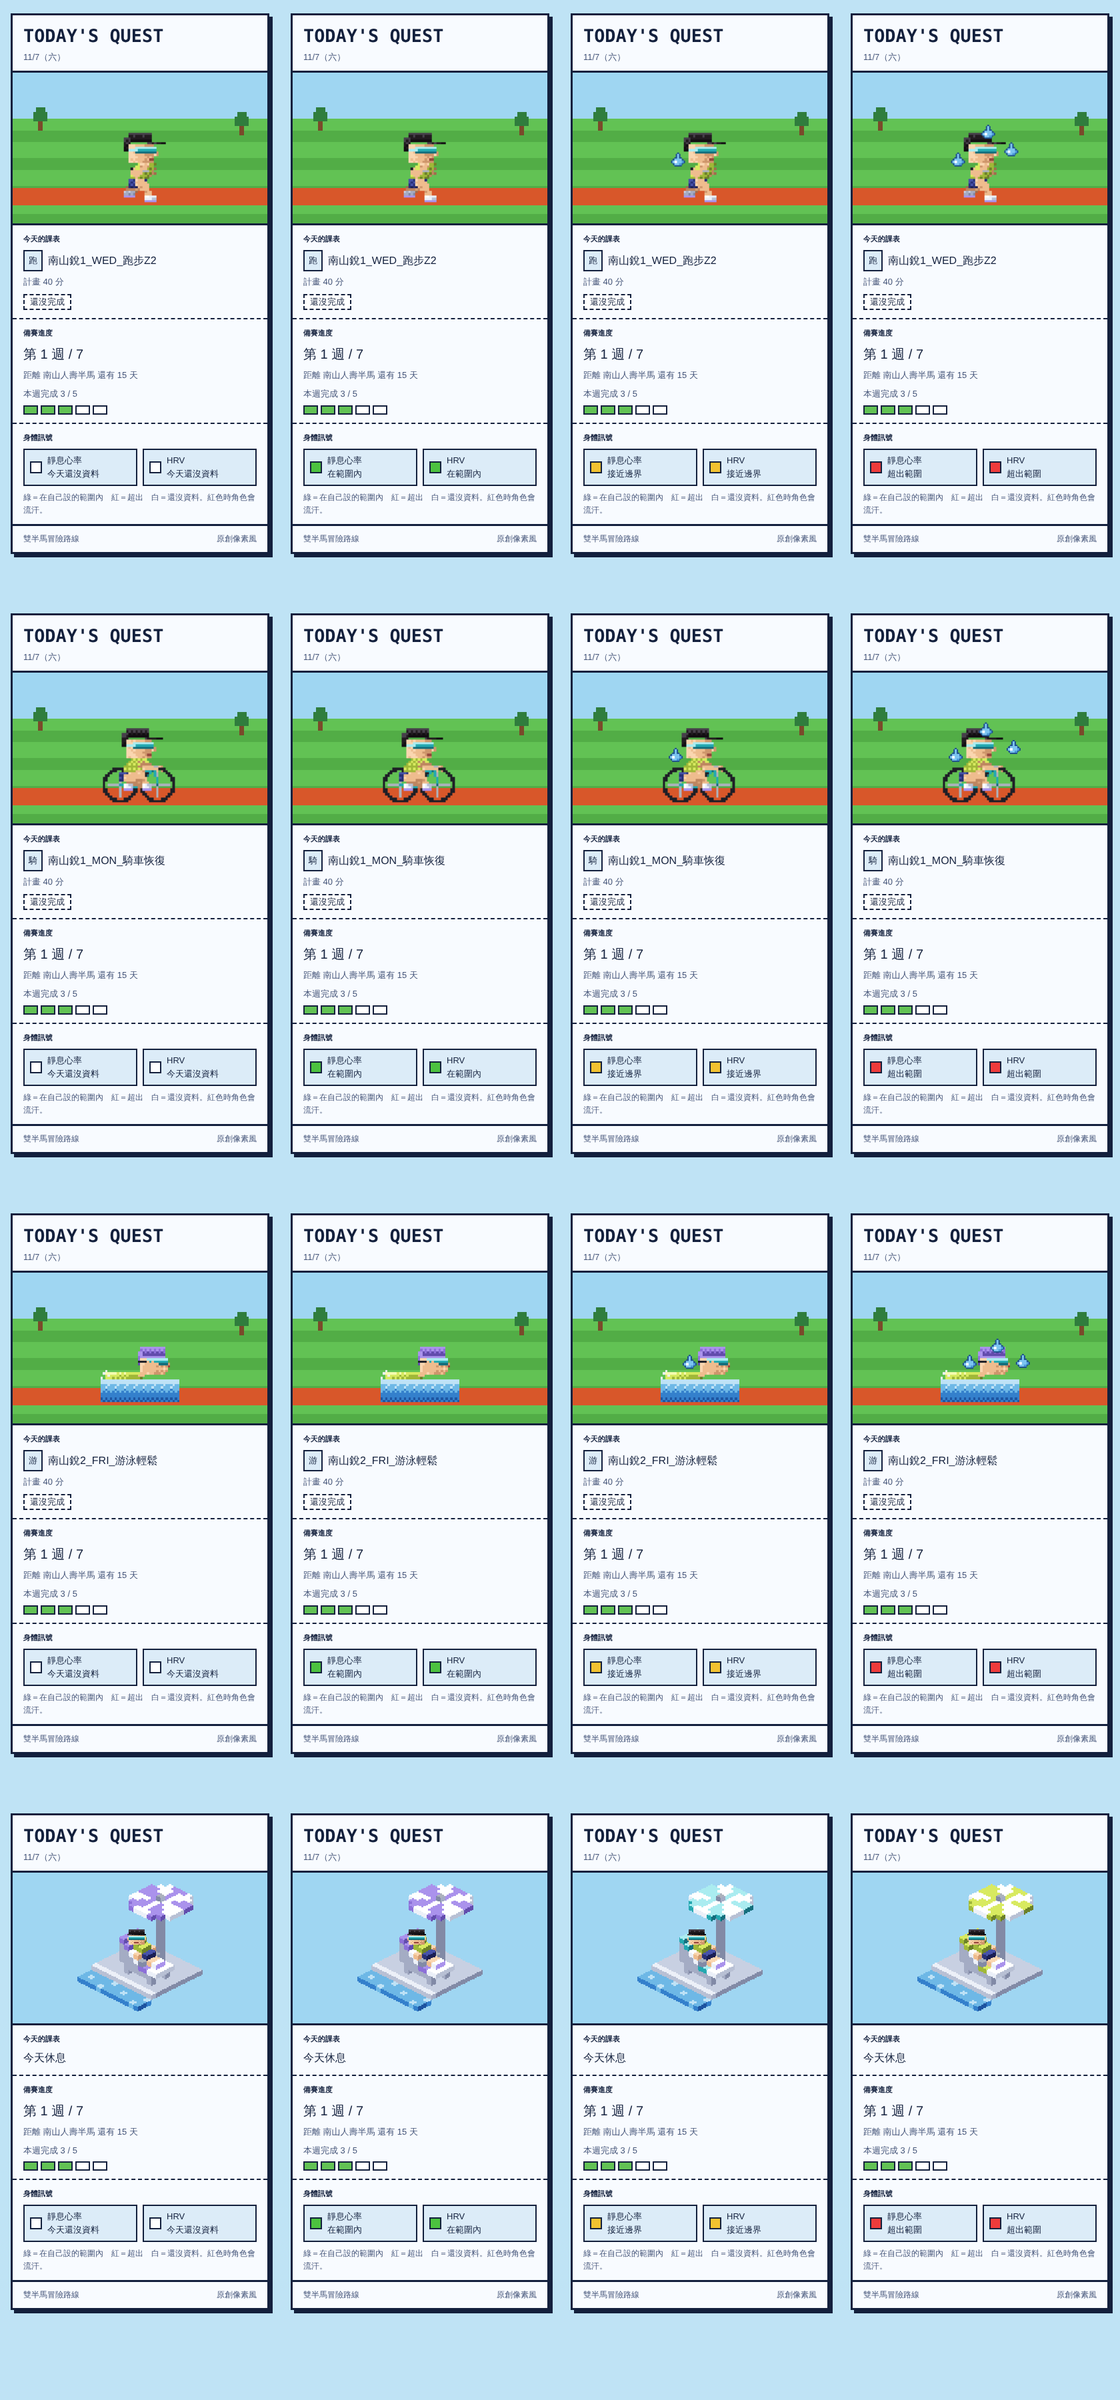
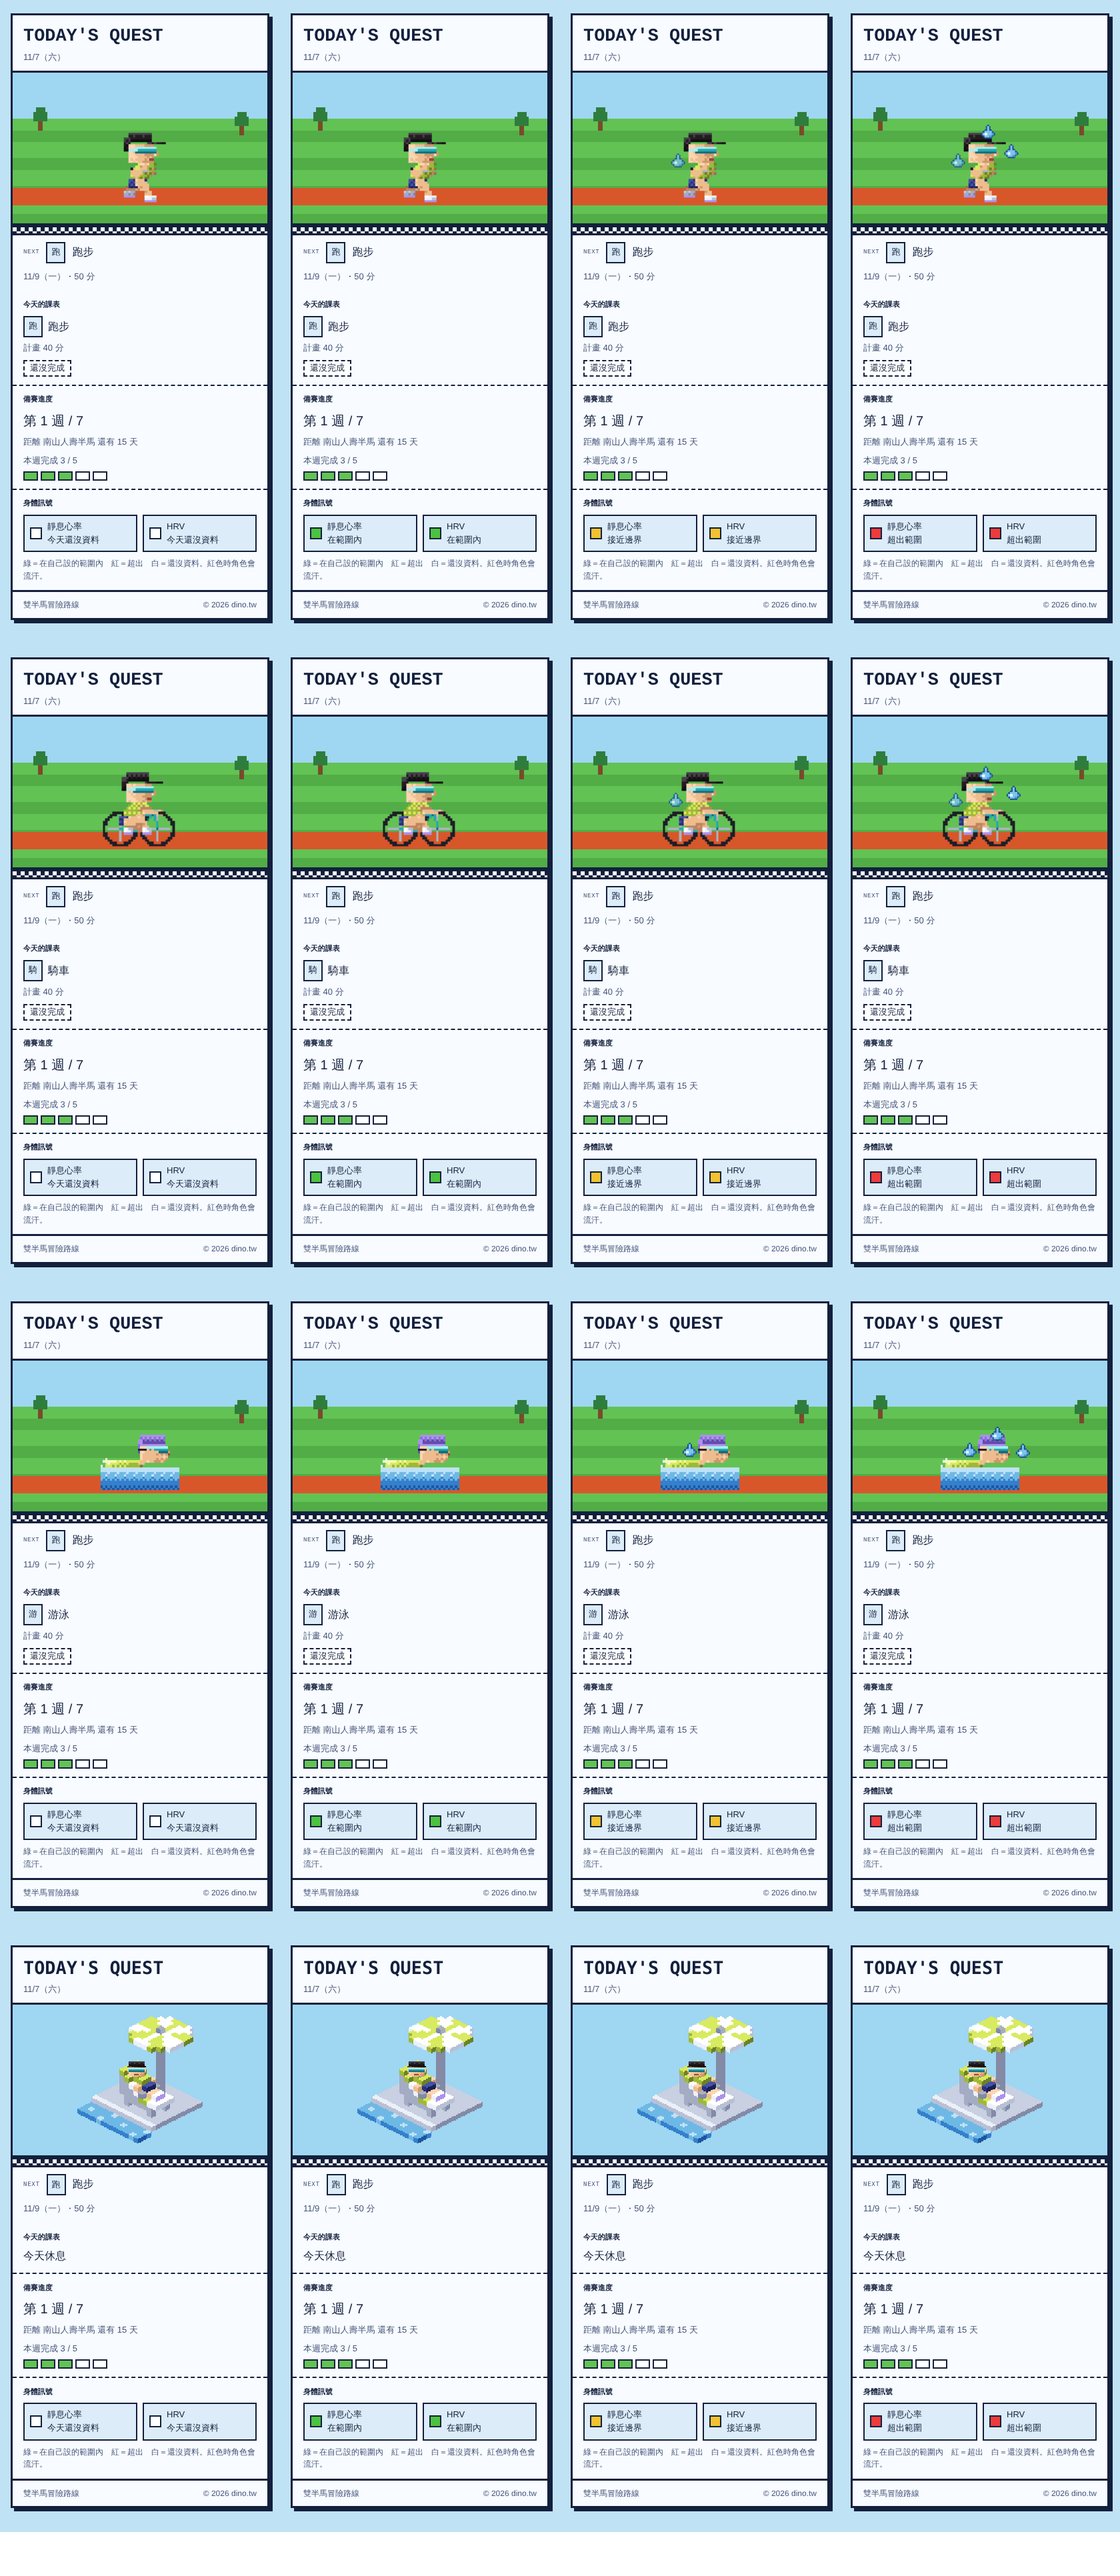
關閉 workers.dev；展示版改顯示類型名稱、版權宣告 dino.tw、新增下一個課表終點線區塊

diff --git a/public-demo/index.html b/public-demo/index.html
@@ -40,6 +40,12 @@ h1,h2,p{margin:0}
 .chip i{flex:none;width:18px;height:18px;border:2px solid var(--line);display:block}
 .chip.ok i{background:#4cc23f}.chip.out i{background:#ee3b3b}.chip.near i{background:#f2c230}.chip.missing i{background:#fff}
 .legend{margin-top:8px;color:var(--muted);font-size:12px}
+.finl{border-top:3px solid var(--line);background:var(--panel)}
+.finl i{display:block;height:12px;background-image:conic-gradient(#13203d 25%,#fff 0 50%,#13203d 0 75%,#fff 0);background-size:12px 12px;border-bottom:3px solid var(--line)}
+.finl .fb{padding:10px 16px 12px;display:flex;align-items:center;gap:10px;flex-wrap:wrap}
+.finl .fk{font-family:var(--font-display);font-size:9px;color:var(--muted);letter-spacing:.08em}
+.finl .fn{font-size:16px}
+.finl .fm{color:var(--muted);font-size:13px;width:100%}
 .ft{padding:10px 16px;border-top:3px solid var(--line);color:var(--muted);font-size:12px;display:flex;justify-content:space-between;gap:8px;flex-wrap:wrap}
 @keyframes sweat{0%{transform:translateY(0);opacity:1}75%{transform:translateY(8px);opacity:1}100%{transform:translateY(12px);opacity:0}}
 .sdrop{animation:sweat .9s steps(5,end) infinite}
@@ -92,6 +98,7 @@ function sprite(x,y,left,act,lvl){
   return out+'</g></g>';
 }
 var WD=['日','一','二','三','四','五','六'];
+var KN={'跑':'跑步','騎':'騎車','游':'游泳','肌力':'肌力訓練'}; function kn(k){return KN[k]||k||'其他'}
 function p(s){var a=s.split('-').map(Number);return new Date(a[0],a[1]-1,a[2],12)}
 function esc(s){return String(s==null?'':s).replace(/[&<>"']/g,function(c){return {'&':'&amp;','<':'&lt;','>':'&gt;','"':'&quot;',"'":'&#39;'}[c]})}
 var d=p(SNAP.date), days=Math.round((p(SNAP.race.date)-d)/86400000);
@@ -112,14 +119,15 @@ function scene(){
 }
 var h='<div class="hd"><h1>TODAY\'S QUEST</h1><div class="dt">'+(d.getMonth()+1)+'/'+d.getDate()+'（'+WD[d.getDay()]+'）</div></div>';
 h+='<div class="scene">'+scene()+'</div>';
+if(SNAP.next){var nd=p(SNAP.next.date);h+='<div class="finl" aria-label="下一個課表"><i aria-hidden="true"></i><div class="fb"><span class="fk">NEXT</span><span class="kd">'+esc(SNAP.next.kind)+'</span><span class="fn">'+esc(kn(SNAP.next.kind))+'</span><span class="fm">'+(nd.getMonth()+1)+'/'+nd.getDate()+'（'+WD[nd.getDay()]+'）'+(SNAP.next.mins?'・'+SNAP.next.mins+' 分':'')+'</span></div></div>'}
 h+='<section class="sec"><h2>今天的課表</h2>';
 if(w){
-  h+='<div class="wk"><span class="kd">'+esc(w.kind)+'</span><span class="wt">'+esc(w.title)+'</span></div>';
+  h+='<div class="wk"><span class="kd">'+esc(w.kind)+'</span><span class="wt">'+esc(kn(w.kind))+'</span></div>';
   h+='<div class="meta">計畫 '+w.mins+' 分</div>';
   if(w.done){h+='<span class="st done">完成</span>'+(w.actual?'<div class="meta">實際 '+(w.actual.km?w.actual.km+' 公里・':'')+w.actual.min+' 分</div>':'')}
   else h+='<span class="st todo">還沒完成</span>';
 }else h+='<div class="wt">今天休息</div>';
-if(SNAP.extras&&SNAP.extras.length){h+='<div class="meta">另外完成：'+SNAP.extras.map(function(x){return esc(x.title)+(x.km?'（'+x.km+' 公里・'+x.min+' 分）':'')}).join('、')+'</div>'}
+if(SNAP.extras&&SNAP.extras.length){h+='<div class="meta">另外完成：'+SNAP.extras.map(function(x){return esc(kn(x.kind))+(x.km?'（'+x.km+' 公里・'+x.min+' 分）':'')}).join('、')+'</div>'}
 h+='</section>';
 h+='<section class="sec"><h2>備賽進度</h2><div class="big">第 '+SNAP.weekNo+' 週 / '+SNAP.weeks+'</div>';
 h+='<div class="meta">距離 '+esc(SNAP.race.name)+' 還有 '+days+' 天</div>';
@@ -129,8 +137,8 @@ h+='</div></section>';
 h+='<section class="sec"><h2>身體訊號</h2><div class="chips">';
 [['rhr','靜息心率'],['hrv','HRV']].forEach(function(x){var s=SNAP.body[x[0]];h+='<div class="chip '+s+'"><i></i><span>'+x[1]+'<br>'+LBL[s]+'</span></div>'});
 h+='</div><div class="legend">綠＝在自己設的範圍內　紅＝超出　白＝還沒資料。紅色時角色會流汗。</div></section>';
-h+='<div class="ft"><span>雙半馬冒險路線</span><span>原創像素風</span></div>';
+h+='<div class="ft"><span>雙半馬冒險路線</span><span>© '+new Date().getFullYear()+' dino.tw</span></div>';
 document.getElementById('card').innerHTML=h;
-}).catch(function(){document.getElementById('card').innerHTML='<div class="sec">資料暫時讀不到，請稍後再試。</div>'});
+}).catch(function(e){try{console.error('展示版載入失敗：',e)}catch(_){}document.getElementById('card').innerHTML='<div class="sec">資料暫時讀不到，請稍後再試。</div>'});
 })();
 </script>

diff --git a/source/showcase_template.html b/source/showcase_template.html
@@ -36,6 +36,12 @@ h1,h2,p{margin:0}
 .chip i{flex:none;width:18px;height:18px;border:2px solid var(--line);display:block}
 .chip.ok i{background:#4cc23f}.chip.out i{background:#ee3b3b}.chip.near i{background:#f2c230}.chip.missing i{background:#fff}
 .legend{margin-top:8px;color:var(--muted);font-size:12px}
+.finl{border-top:3px solid var(--line);background:var(--panel)}
+.finl i{display:block;height:12px;background-image:conic-gradient(#13203d 25%,#fff 0 50%,#13203d 0 75%,#fff 0);background-size:12px 12px;border-bottom:3px solid var(--line)}
+.finl .fb{padding:10px 16px 12px;display:flex;align-items:center;gap:10px;flex-wrap:wrap}
+.finl .fk{font-family:var(--font-display);font-size:9px;color:var(--muted);letter-spacing:.08em}
+.finl .fn{font-size:16px}
+.finl .fm{color:var(--muted);font-size:13px;width:100%}
 .ft{padding:10px 16px;border-top:3px solid var(--line);color:var(--muted);font-size:12px;display:flex;justify-content:space-between;gap:8px;flex-wrap:wrap}
 @keyframes sweat{0%{transform:translateY(0);opacity:1}75%{transform:translateY(8px);opacity:1}100%{transform:translateY(12px);opacity:0}}
 .sdrop{animation:sweat .9s steps(5,end) infinite}
@@ -50,6 +56,7 @@ h1,h2,p{margin:0}
 var SNAP=__SNAP__;
 __SPRITE__
 var WD=['日','一','二','三','四','五','六'];
+var KN={'跑':'跑步','騎':'騎車','游':'游泳','肌力':'肌力訓練'}; function kn(k){return KN[k]||k||'其他'}
 function p(s){var a=s.split('-').map(Number);return new Date(a[0],a[1]-1,a[2],12)}
 function esc(s){return String(s==null?'':s).replace(/[&<>"']/g,function(c){return {'&':'&amp;','<':'&lt;','>':'&gt;','"':'&quot;',"'":'&#39;'}[c]})}
 var d=p(SNAP.date), days=Math.round((p(SNAP.race.date)-d)/86400000);
@@ -69,14 +76,15 @@ function scene(){
 }
 var h='<div class="hd"><h1>TODAY\'S QUEST</h1><div class="dt">'+(d.getMonth()+1)+'/'+d.getDate()+'（'+WD[d.getDay()]+'）</div></div>';
 h+='<div class="scene">'+scene()+'</div>';
+if(SNAP.next){var nd=p(SNAP.next.date);h+='<div class="finl" aria-label="下一個課表"><i aria-hidden="true"></i><div class="fb"><span class="fk">NEXT</span><span class="kd">'+esc(SNAP.next.kind)+'</span><span class="fn">'+esc(kn(SNAP.next.kind))+'</span><span class="fm">'+(nd.getMonth()+1)+'/'+nd.getDate()+'（'+WD[nd.getDay()]+'）'+(SNAP.next.mins?'・'+SNAP.next.mins+' 分':'')+'</span></div></div>'}
 h+='<section class="sec"><h2>今天的課表</h2>';
 if(w){
-  h+='<div class="wk"><span class="kd">'+esc(w.kind)+'</span><span class="wt">'+esc(w.title)+'</span></div>';
+  h+='<div class="wk"><span class="kd">'+esc(w.kind)+'</span><span class="wt">'+esc(kn(w.kind))+'</span></div>';
   h+='<div class="meta">計畫 '+w.mins+' 分</div>';
   if(w.done){h+='<span class="st done">完成</span>'+(w.actual?'<div class="meta">實際 '+(w.actual.km?w.actual.km+' 公里・':'')+w.actual.min+' 分</div>':'')}
   else h+='<span class="st todo">還沒完成</span>';
 }else h+='<div class="wt">今天休息</div>';
-if(SNAP.extras&&SNAP.extras.length){h+='<div class="meta">另外完成：'+SNAP.extras.map(function(x){return esc(x.title)+(x.km?'（'+x.km+' 公里・'+x.min+' 分）':'')}).join('、')+'</div>'}
+if(SNAP.extras&&SNAP.extras.length){h+='<div class="meta">另外完成：'+SNAP.extras.map(function(x){return esc(kn(x.kind))+(x.km?'（'+x.km+' 公里・'+x.min+' 分）':'')}).join('、')+'</div>'}
 h+='</section>';
 h+='<section class="sec"><h2>備賽進度</h2><div class="big">第 '+SNAP.weekNo+' 週 / '+SNAP.weeks+'</div>';
 h+='<div class="meta">距離 '+esc(SNAP.race.name)+' 還有 '+days+' 天</div>';
@@ -86,7 +94,7 @@ h+='</div></section>';
 h+='<section class="sec"><h2>身體訊號</h2><div class="chips">';
 [['rhr','靜息心率'],['hrv','HRV']].forEach(function(x){var s=SNAP.body[x[0]];h+='<div class="chip '+s+'"><i></i><span>'+x[1]+'<br>'+LBL[s]+'</span></div>'});
 h+='</div><div class="legend">綠＝在自己設的範圍內　紅＝超出　白＝還沒資料。紅色時角色會流汗。</div></section>';
-h+='<div class="ft"><span>雙半馬冒險路線</span><span>原創像素風</span></div>';
+h+='<div class="ft"><span>雙半馬冒險路線</span><span>© '+new Date().getFullYear()+' dino.tw</span></div>';
 document.getElementById('card').innerHTML=h;
 })();
 </script>

diff --git a/src/lib/snapshot.js b/src/lib/snapshot.js
@@ -1,4 +1,4 @@
-// 展示版快照：只組出淨化後的欄位（規格第八節）。不含 desc、心率、HRV、睡眠、CTL/ATL、note 內的心率與負荷。
+// 展示版快照：只組出淨化後的欄位（規格第八節；2026-11-12 起不輸出課表原名與活動名稱，只給類型）。不含 desc、心率、HRV、睡眠、CTL/ATL、note 內的心率與負荷。
 export const START = '2026-11-02', NWEEKS = 7;
 export const RACES = [
   { id: 'nanshan', name: '南山人壽半馬', date: '2026-11-22' },
@@ -26,13 +26,16 @@ export function buildSnapshot({ today, workouts, wellness, ranges }) {
   const race = RACES.find((x) => x.date >= today) || null;
   const extras = workouts.filter((w) => w.unplanned && w.date === today).map((w) => {
     const km = /([\d.]+)\s*km/.exec(w.note || ''), mn = /(\d+)\s*分/.exec(w.note || '');
-    return { title: w.title, km: km ? Number(km[1]) : null, min: mn ? Number(mn[1]) : null };
+    return { kind: w.kind, km: km ? Number(km[1]) : null, min: mn ? Number(mn[1]) : null }; // 不輸出活動名稱（常含地名）
   });
+  // 下一個課表：今天之後最近一筆「有排的訓練」（休息、計畫外不算）；公開版只給類型、日期、時長
+  const nx = workouts.filter((w) => !w.unplanned && w.kind !== '休息' && w.date > today).sort((a, b) => (a.date < b.date ? -1 : 1))[0];
   return {
     date: today, weekNo: wi + 1, weeks: NWEEKS,
+    next: nx ? { date: nx.date, kind: nx.kind, mins: nx.mins ?? null } : null,
     race: race && { name: race.name, date: race.date },
     workout: tw ? {
-      kind: tw.kind, title: tw.title, mins: tw.mins ?? null, done: !!tw.done,
+      kind: tw.kind, mins: tw.mins ?? null, done: !!tw.done, // 不輸出課表原名，只給類型
       actual: tw.done && tw.actual ? { km: tw.actual.km ?? null, min: tw.actual.min ?? null } : null,
     } : null,
     extras,

diff --git a/test/sync.test.js b/test/sync.test.js
@@ -124,7 +124,20 @@ describe('展示版快照', () => {
     const j = JSON.stringify(s);
     for (const w of ['SECRET', 'avgHr', 'load', '115', 'desc', 'hrv":3', 'rhr":6']) expect(j).not.toContain(w);
     expect(s.body).toEqual({ rhr: 'out', hrv: 'out' });
-    expect(s.extras[0]).toEqual({ title: 'U', km: 2.4, min: 8 });
+    expect(s.extras[0]).toEqual({ kind: undefined, km: 2.4, min: 8 });
+    expect(j).not.toContain('"title"'); expect(j).not.toContain('"U"'); expect(s.workout).not.toHaveProperty('title');
+  });
+});
+
+describe('下一個課表', () => {
+  it('取今天之後最近一筆有排的訓練，只給類型、日期、時長', () => {
+    const base = { today: '2026-11-06', ranges: {}, wellness: undefined };
+    const s = buildSnapshot({ ...base, workouts: [
+      { date: '2026-11-06', title: 'T', kind: '跑', mins: 50 }, { date: '2026-11-09', title: 'SECRET2', kind: '休息' },
+      { date: '2026-11-10', title: 'SECRET3', kind: '騎', mins: 30 }, { date: '2026-11-08', title: 'X', kind: '跑', mins: 20, unplanned: true } ] });
+    expect(s.next).toEqual({ date: '2026-11-10', kind: '騎', mins: 30 });
+    expect(JSON.stringify(s)).not.toContain('SECRET');
+    expect(buildSnapshot({ ...base, workouts: [] }).next).toBeNull();
   });
 });
 

diff --git a/public/index.html b/public/index.html
@@ -818,7 +818,7 @@ function drawCard(D){
   });
   ctx.fillStyle=MUTED; ctx.font='10px '+BODY; ctx.fillText('綠＝在自己設的範圍內　紅＝超出　白＝還沒資料。紅色時角色會流汗。',16,y2+76);
   ctx.fillStyle=INK; ctx.fillRect(0,y2+82,360,3);
-  ctx.fillStyle=MUTED; ctx.font='11px '+BODY; ctx.fillText('雙半馬冒險路線',16,y2+98); ctx.textAlign='right'; ctx.fillText('原創像素風',344,y2+98); ctx.textAlign='left';
+  ctx.fillStyle=MUTED; ctx.font='11px '+BODY; ctx.fillText('雙半馬冒險路線',16,y2+98); ctx.textAlign='right'; ctx.fillText('© '+new Date().getFullYear()+' dino.tw',344,y2+98); ctx.textAlign='left';
   ctx.strokeStyle=INK; ctx.lineWidth=4; ctx.strokeRect(2,2,356,636);
   return cv;
 }

diff --git a/scripts/build_demo.py b/scripts/build_demo.py
@@ -20,7 +20,7 @@ t = t.replace("function scene(){", "function scene(){\n  if(!w&&window.REST_ART)
 assert 'var SNAP=__SNAP__;' in t and t.rstrip().endswith('</script>')
 t = t.replace('var SNAP=__SNAP__;', "fetch('/api/snapshot?tz='+encodeURIComponent((function(){try{return Intl.DateTimeFormat().resolvedOptions().timeZone||''}catch(e){return ''}})()),{cache:'no-store'}).then(function(r){if(!r.ok)throw 0;return r.json()}).then(function(SNAP){", 1)
 k = t.rindex('})();')
-t = t[:k] + "}).catch(function(){document.getElementById('card').innerHTML='<div class=\"sec\">資料暫時讀不到，請稍後再試。</div>'});\n})();" + t[k + 5:]
+t = t[:k] + "}).catch(function(e){try{console.error('展示版載入失敗：',e)}catch(_){}document.getElementById('card').innerHTML='<div class=\"sec\">資料暫時讀不到，請稍後再試。</div>'});\n})();" + t[k + 5:]
 t = '<!doctype html>\n<html lang="zh-Hant"><head>\n<meta charset="utf-8">\n<meta name="viewport" content="width=device-width,initial-scale=1,viewport-fit=cover">\n' + t
 os.makedirs(os.path.join(root, 'public-demo'), exist_ok=True)
 open(os.path.join(root, 'public-demo/index.html'), 'w', encoding='utf-8').write(t)

diff --git a/CLAUDE.md b/CLAUDE.md
@@ -38,6 +38,7 @@
 - 身分與驗證（2026-11-12）：長期方向為專屬身分服務、各服務自己授權（草稿，待決定）；階段 0 已生效：Google 登入方式已建立，`adventure` 只留 Google 並開 Instant authentication，電腦直接跳 Google、iPhone 主畫面網頁直接進頁面（2026-11-12）；兩層登入時間已設（Dino 回報）；待確認太太帳號是否在 Google 測試使用者，並觀察長期不重登。文件索引見 docs/README.md。
 - 同步狀態提示（2026-11-12）：右下角按鈕「↻ 更新於 HH:MM」，最近一次同步失敗時多一行紅字「同步失敗：原因（HH:MM）」，超過 24 小時沒有成功同步時顯示「超過 N 小時未更新」，從未成功同步顯示「尚未成功同步」；/api/sync-status 回傳 failed、staleHours。四種情況並排截圖：docs/shots/sync_status_states.png（scripts/sync_status_states.cjs）。同步失敗的主動通知：Dino 決定**不做**（失敗不嚴重，頁面有呈現即可，2026-11-12）。
 - 自訂網域（2026-11-12）：完整版 adventure.dino.tw、展示版 quest.dino.tw（已部署並驗證，2026-11-12：adventure.dino.tw 未登入時 302 導向 Access 登入；quest.dino.tw 公開，/api/snapshot 回 200，其餘 /api/* 為 404，無禁止欄位；檢查腳本 scripts/check_domains.sh；Dino 確認新網址使用正常）；trilog.run 不用於 adventure；ACCESS_AUD 支援逗號分隔多個。workers.dev 先保留過渡。
+- 展示版調整（2026-11-12）：workers.dev 已關閉（`workers_dev = false`，待部署生效）；展示版課表與計畫外活動只顯示類型名稱（跑步、騎車、游泳、肌力訓練），不再輸出課表原名與活動名稱（含地名）；頁尾改為「© 年份 dino.tw」（展示版與完整版今日圖卡）；展示版新增「下一個課表」終點線區塊（只給類型、日期、時長）。待決定：名稱（原「雙半馬冒險路線」）、終點線區塊的位置與是否也放完整版。
 - 待驗收（2026-11-15 提醒）：Cloudflare 指標「未發現的例外」在 2026-11-12 修正 sync_log 缺 detail 欄位（遠端已補欄位並部署）後是否停止增加；頁面不再誤報紅色「同步失敗」。
 - 階段 4：收尾　未開始
 - 階段 5：切換上線與營運（切換與回退、金鑰輪替、備份還原、安全複查）　未開始；同步失敗通知已用頁面提示完成，不另外通知
